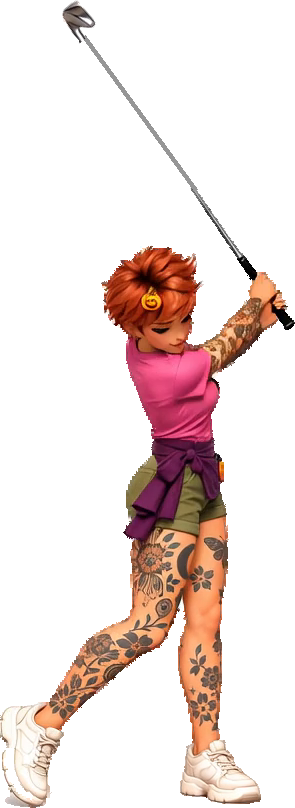
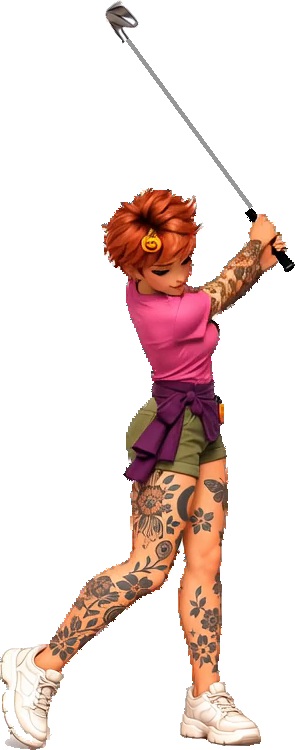
Golf: rebuilt club in the video swing a quarter shorter, one straight shaft
Where the club ran out of the picture (frames 58-70), it's now carried on
to 75% of its address length, since a swinging club points partly toward
or away from the camera and looks shorter. Past her hands the video's
blurred, broken shaft is cleared and a single straight line drawn from her
hands to the head, so there are no gaps or stray bits beside it.

Claude-Session: https://claude.ai/code/session_01VAUjUguVX6tbdgmz3FqzWB

diff --git a/golf/tools/prep_video_swing.py b/golf/tools/prep_video_swing.py
@@ -32,6 +32,8 @@ LAST = 86
 HOLD_FROM = 76              # from here she holds the finish: every other frame is enough
 PAD = 260                   # canvas margin around the video, for a club carried past its edge
 FPS = 24.0
+CLUB_DEPTH = 0.75           # a club carried past the picture's edge is drawn this share of its
+                            # address length (swinging, it's foreshortened)
 BALL_AHEAD_M = 0.15         # the video's ball sits about this far in front of her feet (by its
                             # height below her soles, against her height)
 
@@ -169,17 +171,21 @@ def finish_club(img, a, keep, head, head_hosel):
     hands = tp[np.argmin(np.linalg.norm(tp - e, axis=1))]
     d = (e - hands) / np.linalg.norm(e - hands)
     near = np.linalg.norm(pts - e, axis=1) < 40
-    shaft_len = np.hypot(HOSEL0[0] - HANDS0[0], HOSEL0[1] - HANDS0[1])
-    hosel = hands + d * shaft_len
-    if np.linalg.norm(hosel - hands) <= np.linalg.norm(e - hands) + 4:
-        return img, None                         # the whole club is in the picture after all
-    # shaft: the colour of the shaft just inside the edge, about as wide as it is there
+    # the club carried on is drawn shorter than at address: swinging, it points partly toward or away
+    # from the camera, so it looks shorter than it is. Never shorter than what the video shows.
+    shaft_len = CLUB_DEPTH * np.hypot(HOSEL0[0] - HANDS0[0], HOSEL0[1] - HANDS0[1])
+    hosel = hands + d * max(shaft_len, np.linalg.norm(e - hands))
     col = tuple(int(v) for v in np.median(a[ys[near], xs[near]], 0)) + (255,)   # the shaft's colour at the edge
+    # one straight shaft from her hands to the head: the video's blurred, broken shaft past her hands
+    # is cleared and the line drawn over the whole length
+    stray = (pts - hands) @ d > 6
+    arr = np.array(img)
+    arr[ys[stray] + PAD, xs[stray] + PAD, 3] = 0
+    img = Image.fromarray(arr)
     from PIL import ImageDraw
-    draw = ImageDraw.Draw(img)
-    p0 = e - d * 3 + PAD
+    p0 = hands + d * 6 + PAD
     p1 = hosel + PAD
-    draw.line([tuple(p0), tuple(p1)], fill=col, width=4)
+    ImageDraw.Draw(img).line([tuple(p0), tuple(p1)], fill=col, width=4)
     # head: turned so its hosel's shaft lines up with this shaft
     d0 = np.array([HOSEL0[0] - HANDS0[0], HOSEL0[1] - HANDS0[1]])
     turn = np.degrees(np.arctan2(d0[1], d0[0]) - np.arctan2(d[1], d[0]))
